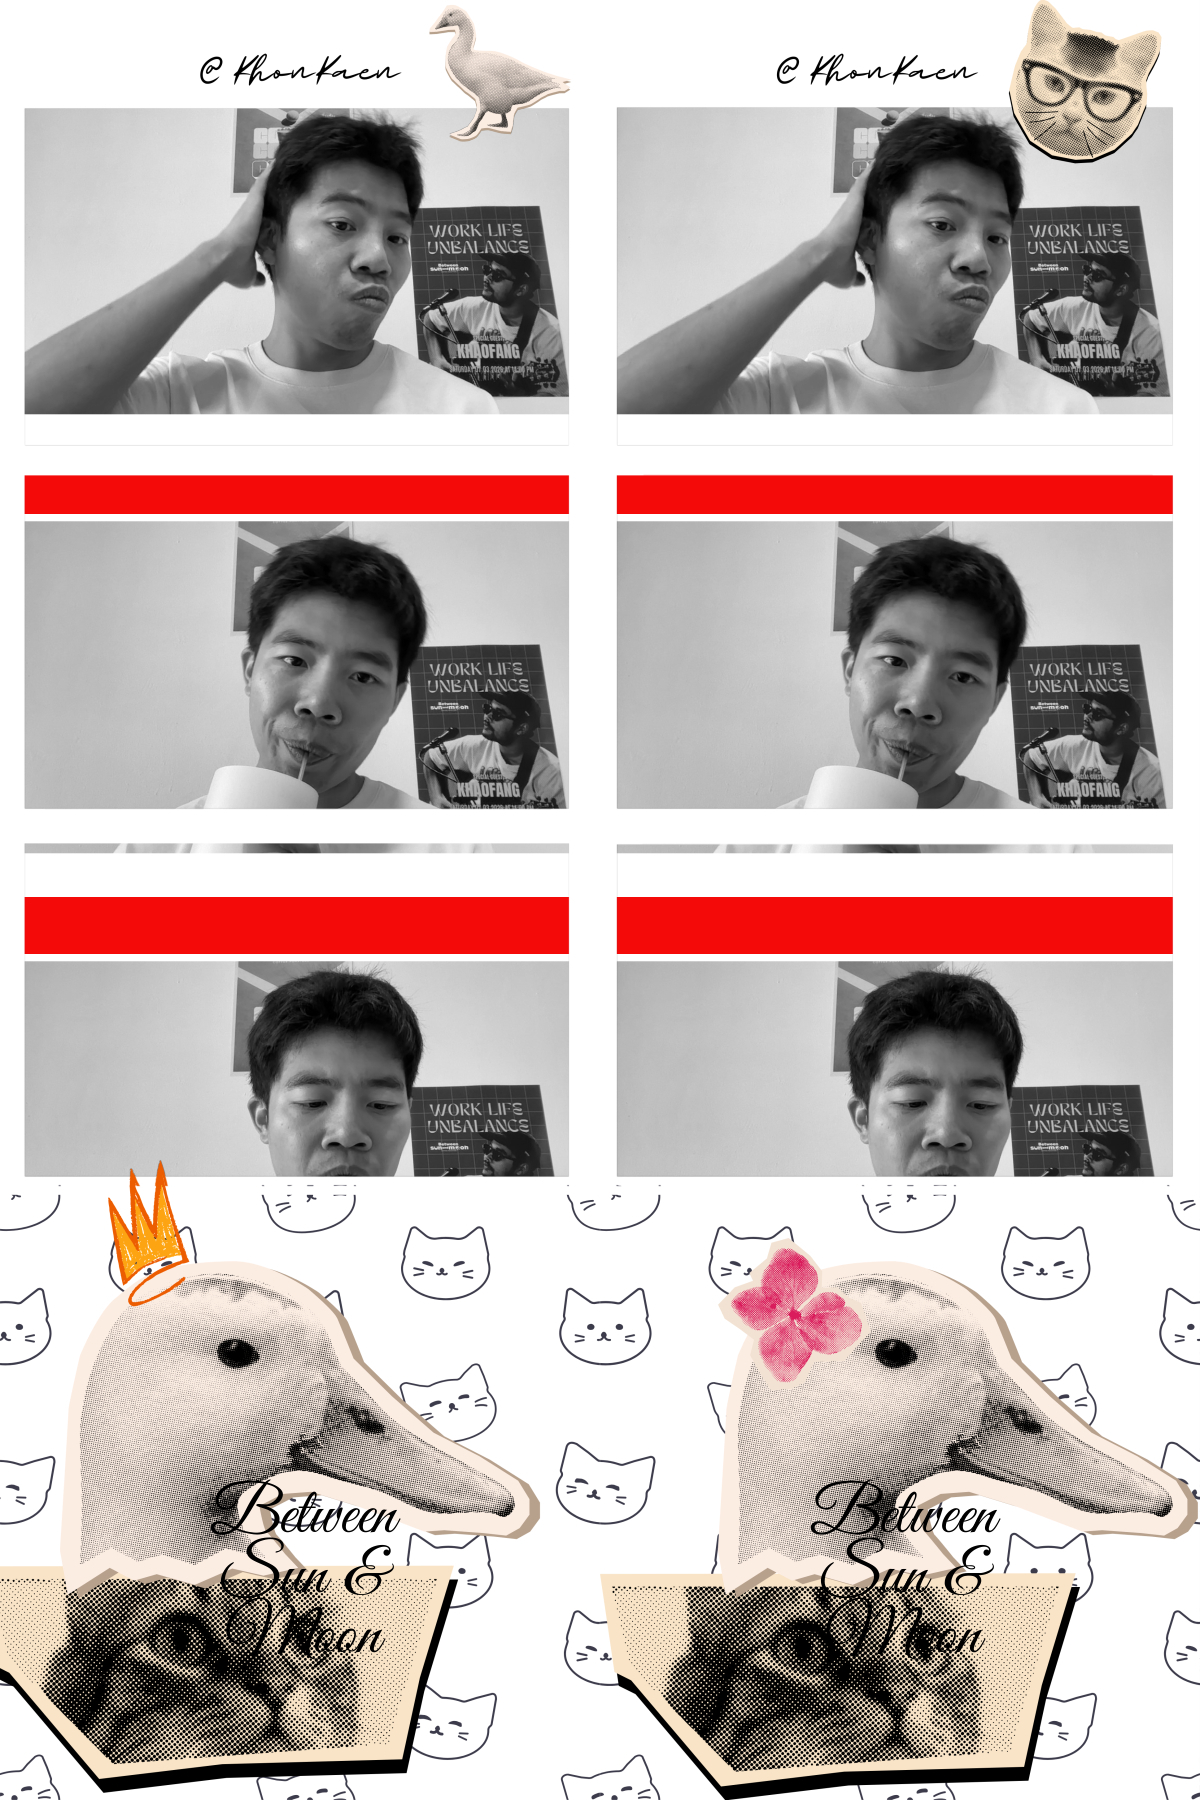
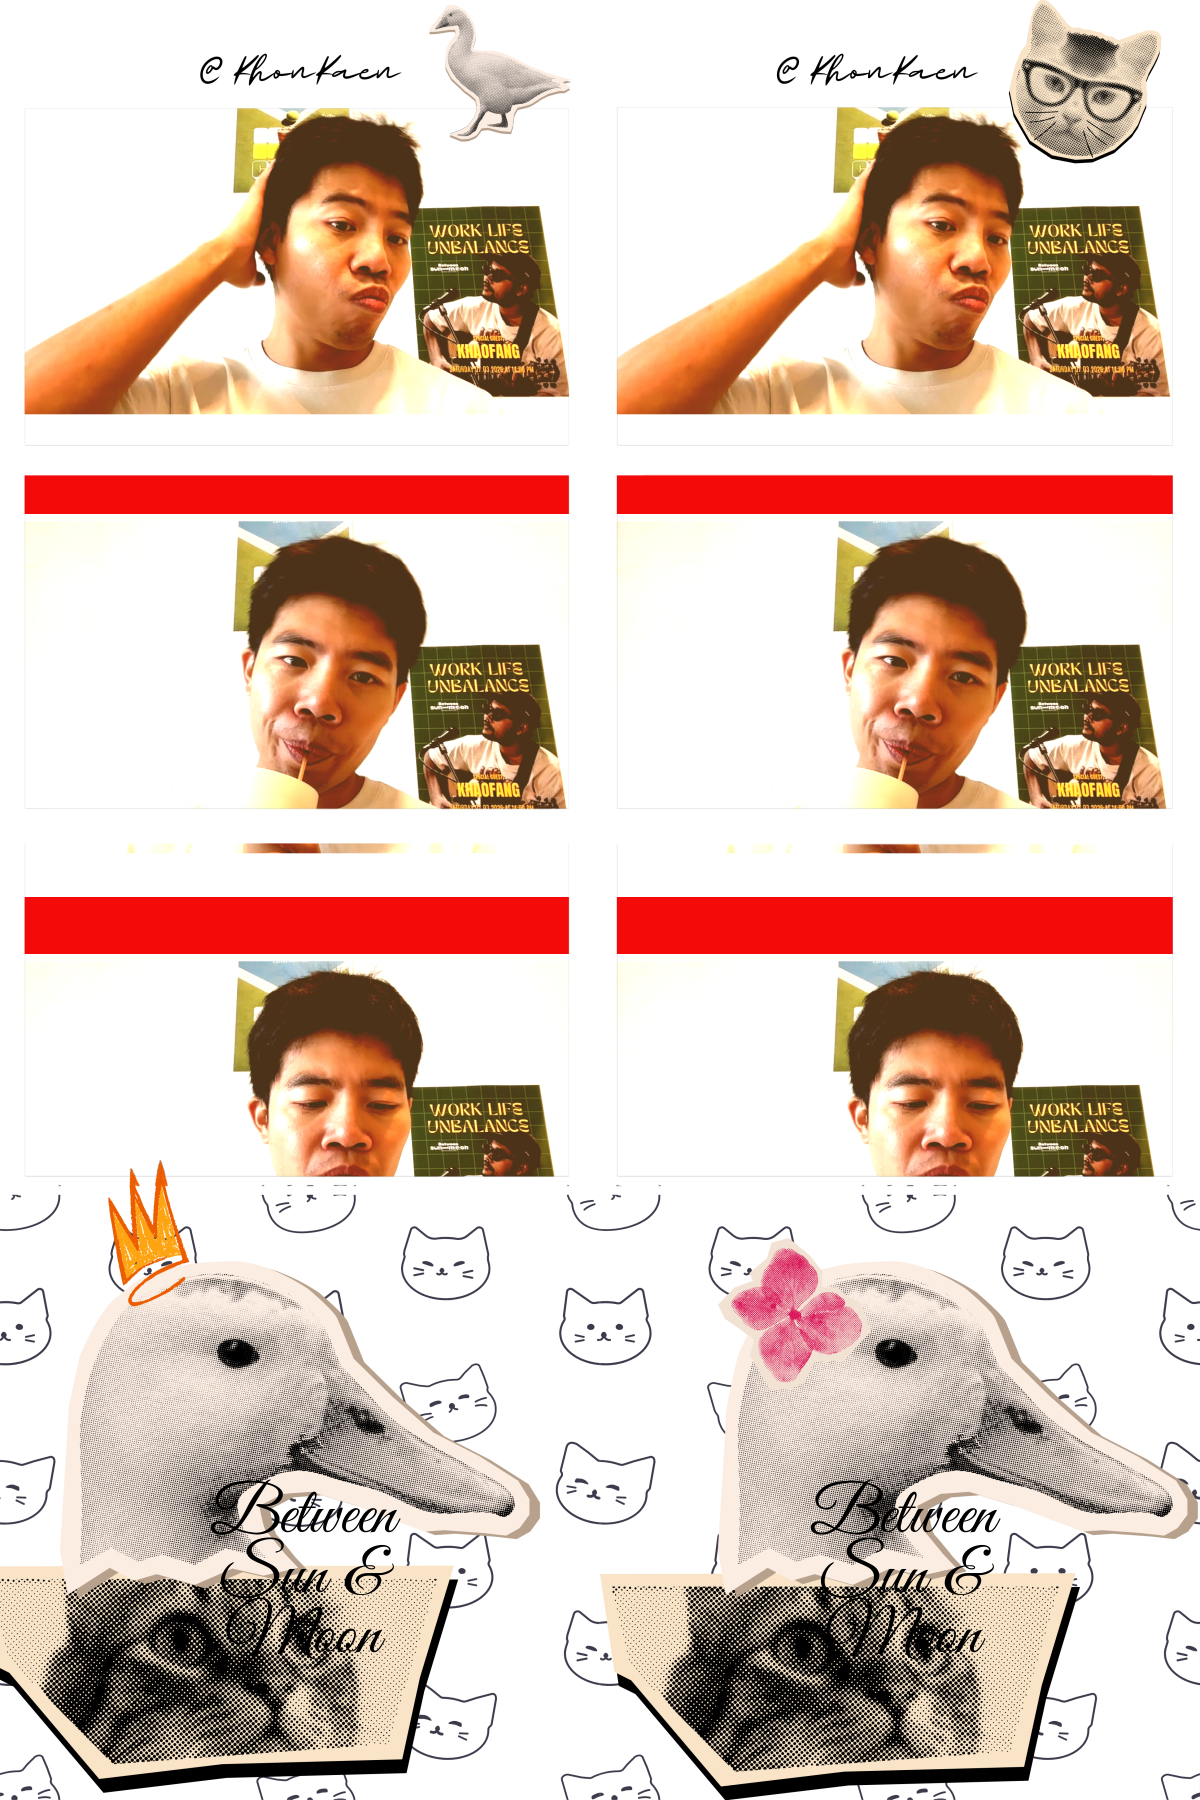
update

diff --git a/resources/js/core.js b/resources/js/core.js
@@ -1383,7 +1383,10 @@ var photoBooth = (function () {
     };
     api.processPic = function (result) {
         startTime = new Date().getTime();
-        setActiveStage('loader');
+        var isFilterReprocess = resultPage.hasClass('stage--active');
+        if (!isFilterReprocess) {
+            setActiveStage('loader');
+        }
         setFiltersEnabled(false);
         loaderMessage.html(
             '<i class="' +
@@ -1490,9 +1493,7 @@ var photoBooth = (function () {
                         resultVideo.show();
                         if (config.video.qr) {
                             var qrSrc =
-                                environment.publicFolders.api +
-                                '/qrcode.php?filename=' +
-                                encodeURIComponent(data.file);
+                                environment.publicFolders.api + '/qrcode.php?filename=' + encodeURIComponent(data.file);
                             if (data.images && data.images.length) {
                                 qrSrc += '&list=' + encodeURIComponent(data.images.join(','));
                             }
@@ -1639,9 +1640,9 @@ var photoBooth = (function () {
         body.appendChild(image);
         var qrHelpText = config.qr.custom_text
             ? config.qr.text
-            : (config.qr.url && config.qr.url.toLowerCase().indexOf('http') === 0
-                ? photoboothTools.getTranslation('qrHelpScan')
-                : photoboothTools.getTranslation('qrHelp') + '<br><b>' + config.webserver.ssid + '</b>');
+            : config.qr.url && config.qr.url.toLowerCase().indexOf('http') === 0
+              ? photoboothTools.getTranslation('qrHelpScan')
+              : photoboothTools.getTranslation('qrHelp') + '<br><b>' + config.webserver.ssid + '</b>';
         var text = document.createElement('p');
         text.innerHTML = qrHelpText;
         body.appendChild(text);
@@ -1762,7 +1763,8 @@ var photoBooth = (function () {
             );
 
         // gallery doesn't support videos atm
-        if (!photoboothTools.isVideoFile(filename)) {
+        var isFilterReprocess = resultPage.attr('data-img') === filename;
+        if (!photoboothTools.isVideoFile(filename) && !isFilterReprocess) {
             api.addImage(filename);
         }
 
@@ -1770,10 +1772,14 @@ var photoBooth = (function () {
         var imageUrl = photoboothTools.isVideoFile(filename)
             ? environment.publicFolders.api + '/qrcode.php?filename=' + filename
             : environment.publicFolders.images + '/' + filename;
+        var imageCacheKey = '?v=' + Date.now();
         var preloadImage = new Image();
         preloadImage.onload = function () {
             resultPage.css({
-                '--stage-background-image': 'url('.concat(imageUrl, '?filter=').concat(imgFilter, ')')
+                '--stage-background-image': 'url('
+                    .concat(imageUrl, imageCacheKey)
+                    .concat('&filter=')
+                    .concat(imgFilter, ')')
             });
             resultPage.attr('data-img', filename);
             setActiveStage('result');
@@ -1810,7 +1816,7 @@ var photoBooth = (function () {
                 rotaryController.focusSet(resultPage);
             }
         };
-        preloadImage.src = imageUrl;
+        preloadImage.src = imageUrl + imageCacheKey;
         api.takingPic = false;
         remoteBuzzerClient.inProgress(false);
         photoboothTools.console.logDev('Taking picture in progress: ' + api.takingPic);

diff --git a/view.php b/view.php
@@ -107,11 +107,12 @@ $mime = match ($extension) {
 $baseUrl = (!empty($config['webserver']['url']) && PathUtility::isFullUrl($config['webserver']['url']))
     ? $config['webserver']['url']
     : null;
+$imageFileMtime = is_file($imagePath) ? filemtime($imagePath) : time();
 if ($baseUrl !== null) {
-    $imageUrl = PathUtility::getPublicPath(FolderEnum::IMAGES->value . '/' . rawurlencode($image), true, $baseUrl);
+    $imageUrl = PathUtility::getPublicPath(FolderEnum::IMAGES->value . '/' . rawurlencode($image), true, $baseUrl) . '?v=' . $imageFileMtime;
     $downloadUrl = PathUtility::getPublicPath('api/download.php?image=' . rawurlencode($image), true, $baseUrl);
 } else {
-    $imageUrl = PathUtility::getPublicPath(FolderEnum::IMAGES->value . '/' . rawurlencode($image));
+    $imageUrl = PathUtility::getPublicPath(FolderEnum::IMAGES->value . '/' . rawurlencode($image)) . '?v=' . $imageFileMtime;
     $downloadUrl = PathUtility::getPublicPath('api/download.php?image=' . rawurlencode($image));
 }
 $languageService = LanguageService::getInstance();
